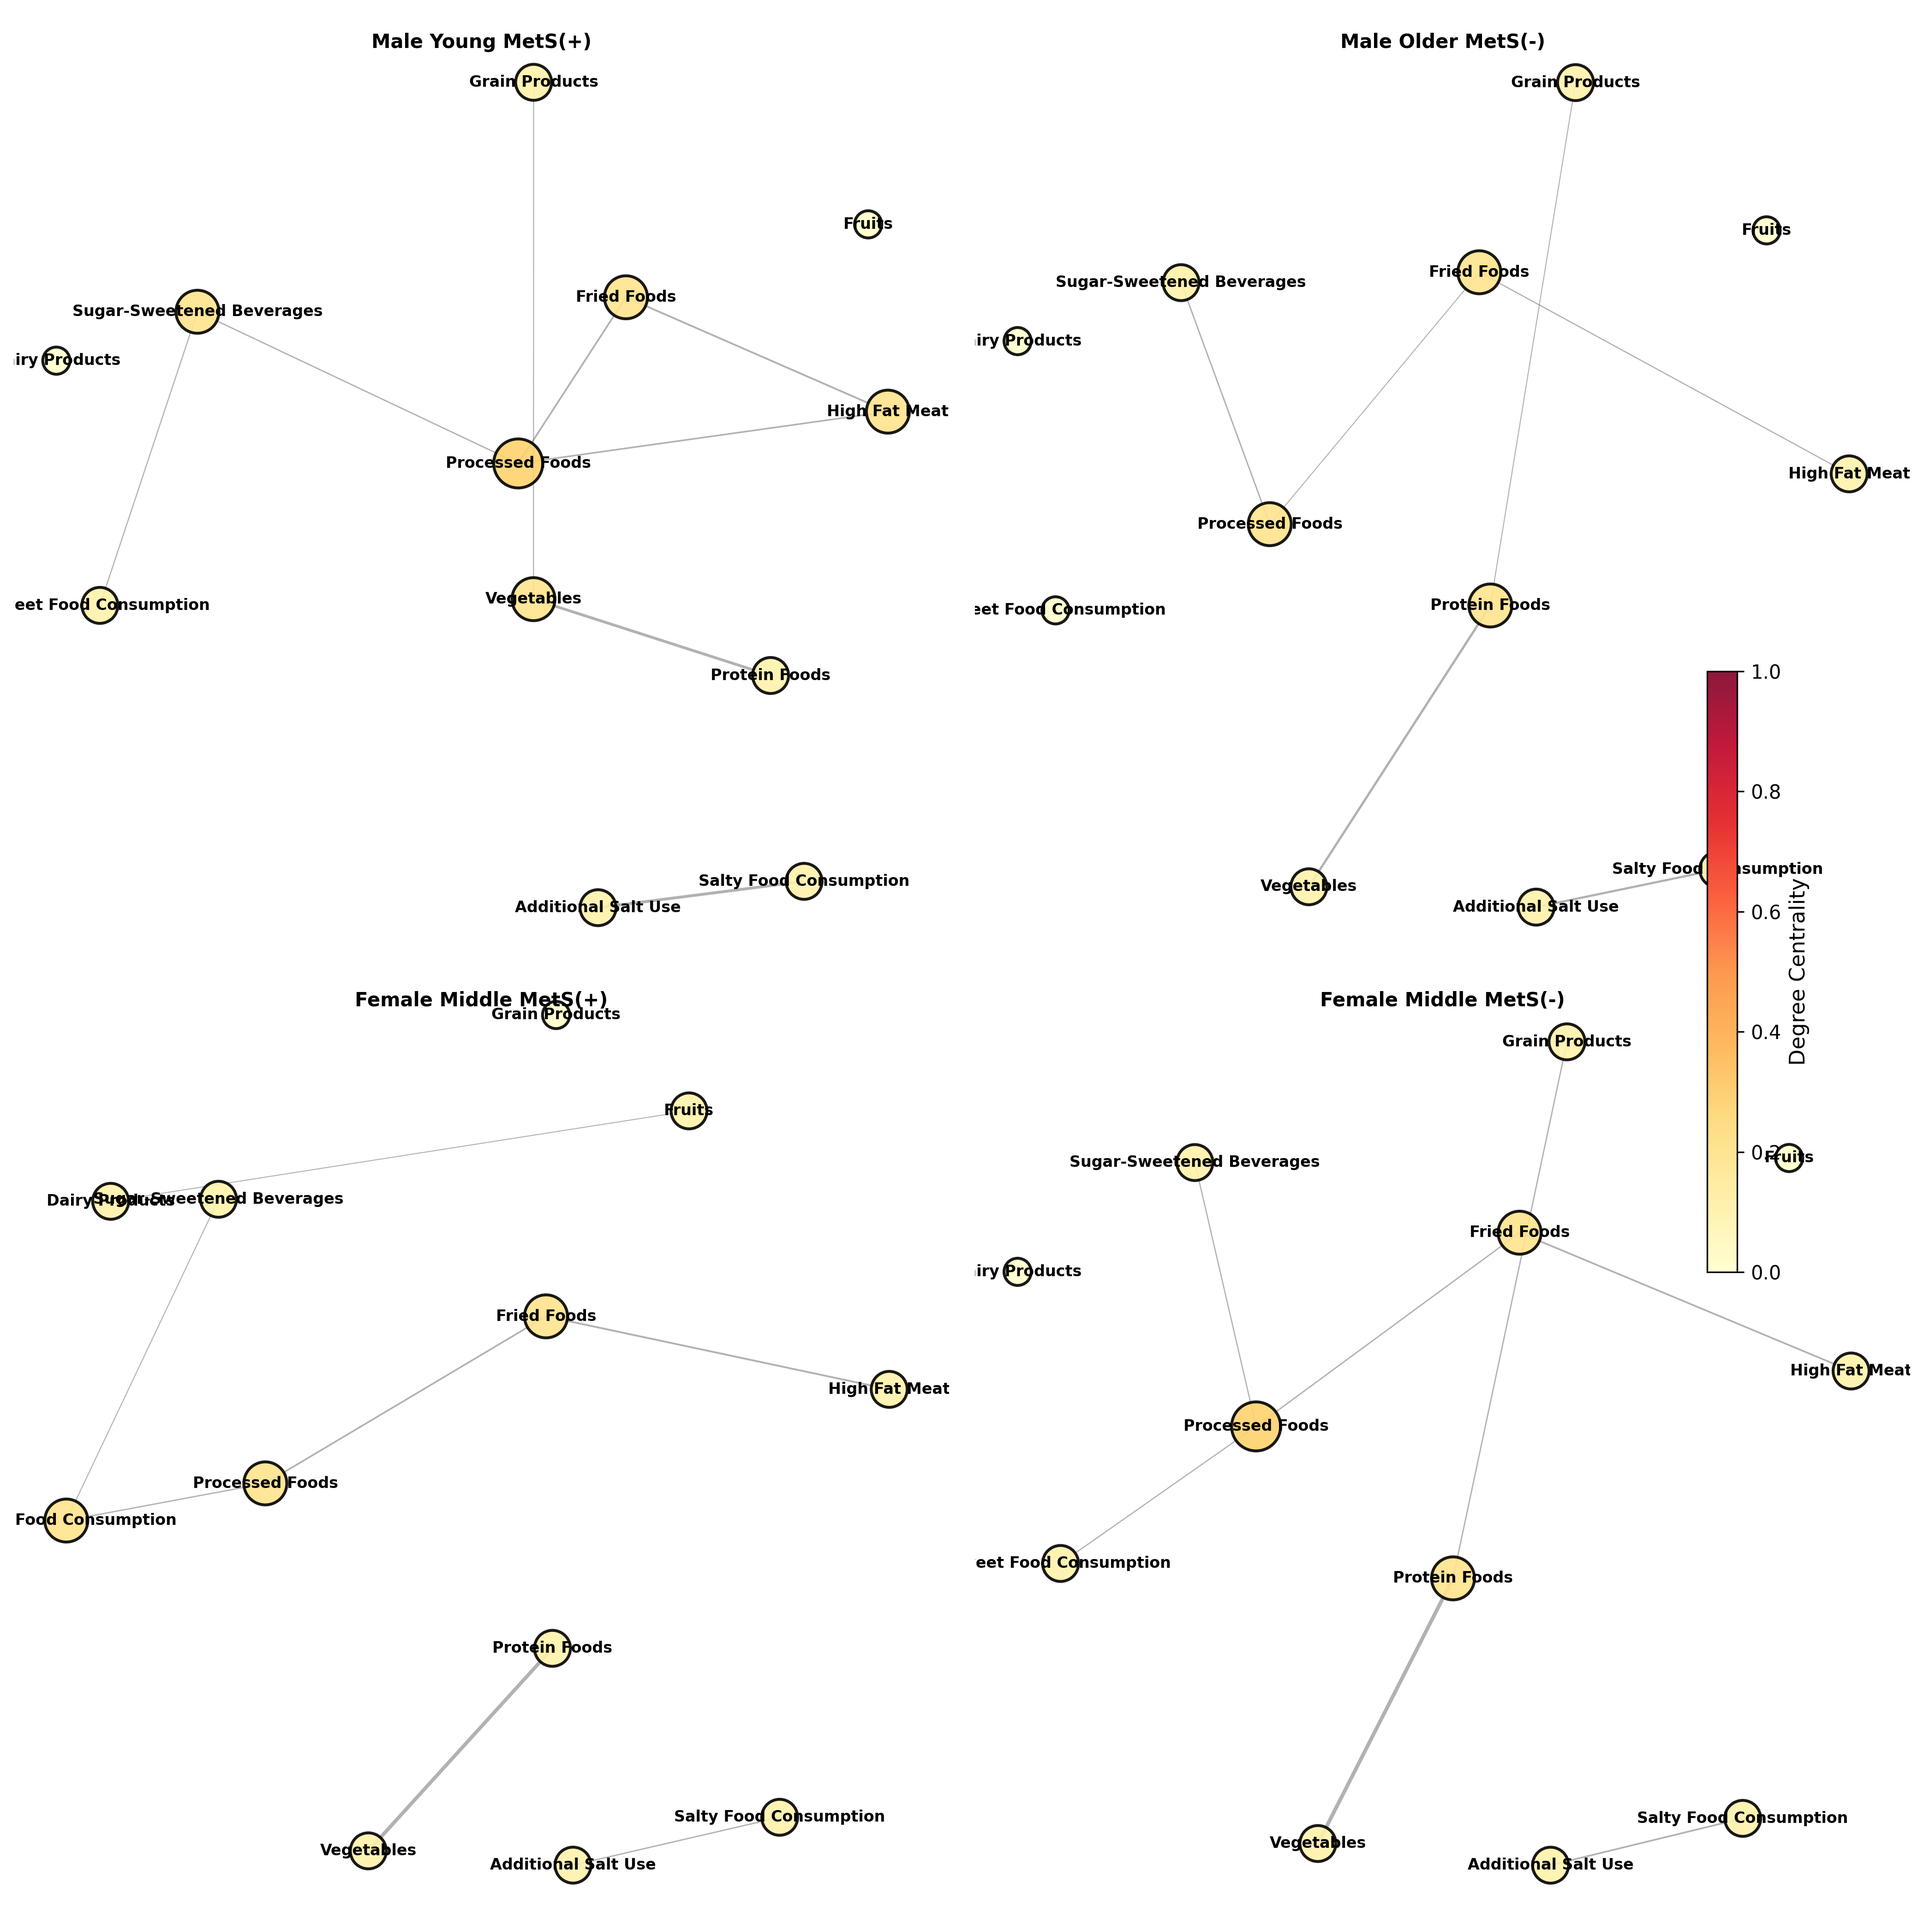
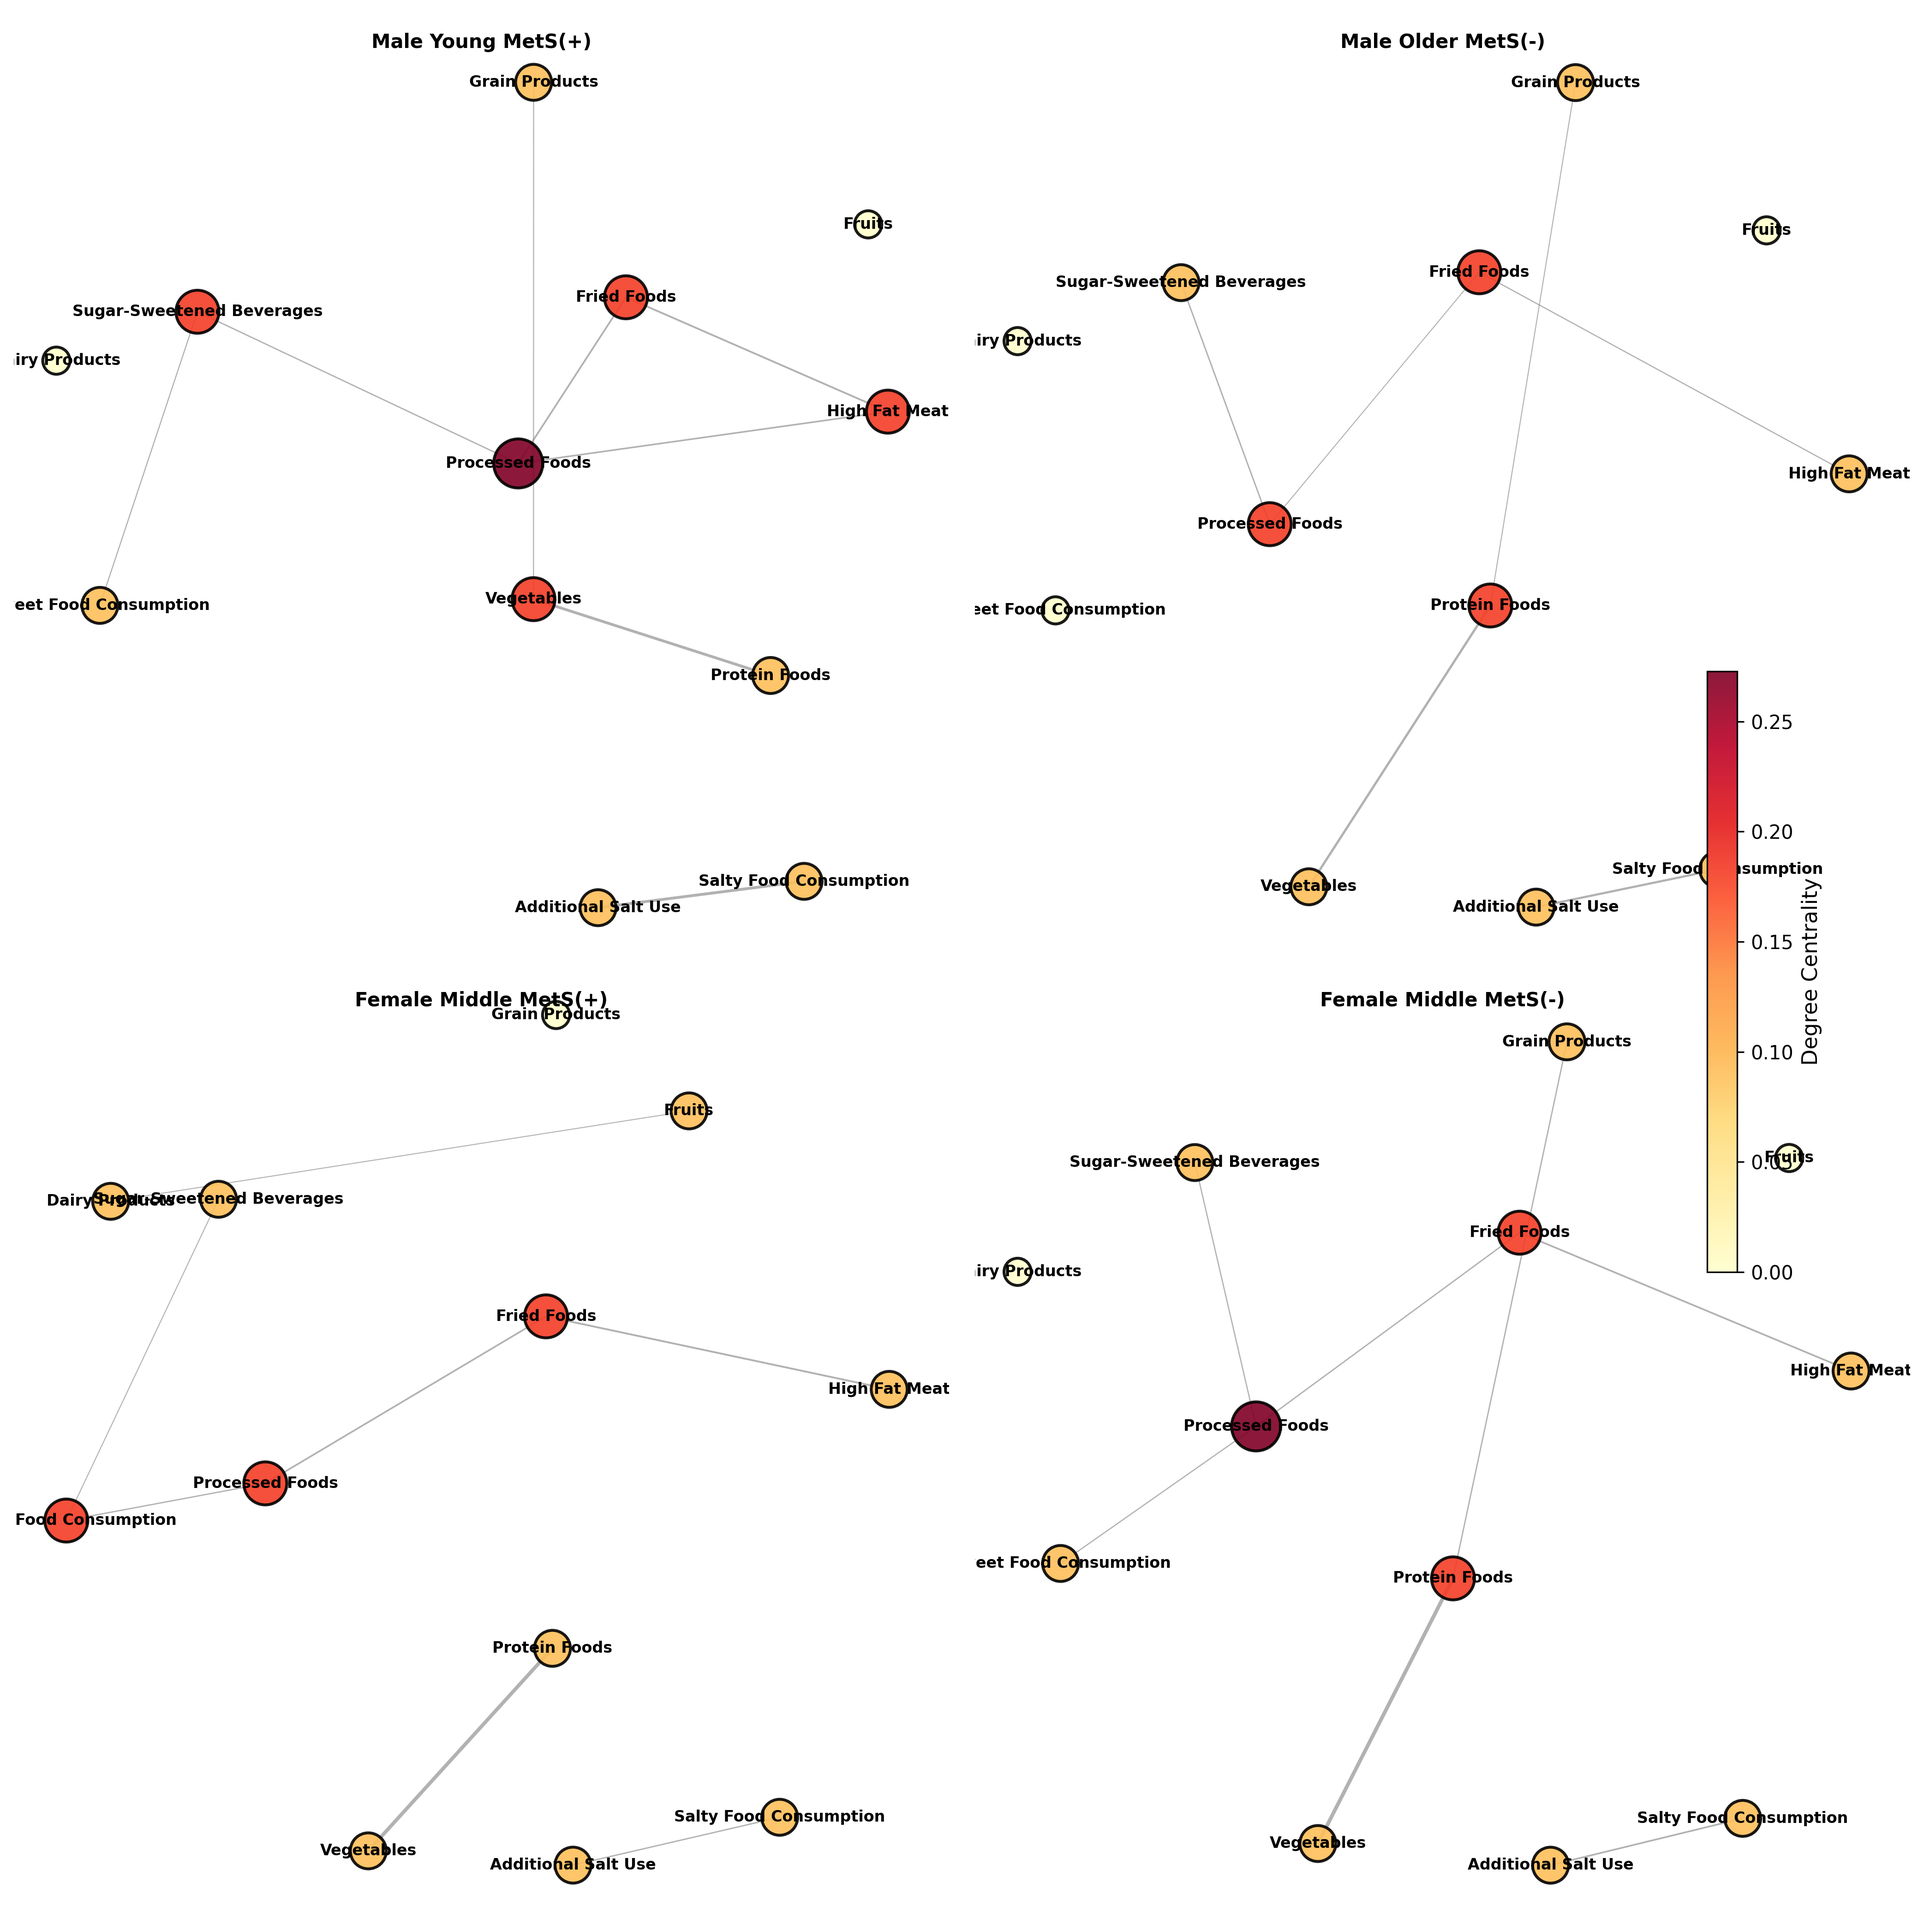
fix: Adjust colorbar range to actual centrality values
Problem:
- GGM networks are sparse (3-9 edges, avg 6.5)
- Degree centrality values are low (0.09-0.27)
- Previous colorbar range (0-1) made all nodes appear yellow

Solution:
- Calculate vmin/vmax from actual centrality data
- Adjust colorbar to 0.000-0.273 range
- Now shows better color contrast (yellow to red gradient)

Changes:
- generate_main_figures_tables.py: Collect centralities first, adjust vmin/vmax
- generate_supplementary_materials.py: Same fix for Figure S1
- Regenerated all network visualization figures

Result: Hub nodes now show stronger red/orange colors, better visual distinction

diff --git a/ver4.0_GGM/src/generate_main_figures_tables.py b/ver4.0_GGM/src/generate_main_figures_tables.py
@@ -183,6 +183,20 @@ def generate_figure_1():
     axes = axes.flatten()
     
     last_nodes = None  # Store the last nodes collection for colorbar
+    all_centralities = []  # Collect all centrality values for vmin/vmax
+    
+    # First pass: collect all centrality values
+    for sex, age_group, mets_status in KEY_GROUPS:
+        G = load_network(sex, age_group, mets_status)
+        if G is not None and G.number_of_nodes() > 0:
+            centrality = nx.degree_centrality(G)
+            all_centralities.extend(centrality.values())
+    
+    # Calculate vmin/vmax from actual data
+    vmin = min(all_centralities) if all_centralities else 0
+    vmax = max(all_centralities) if all_centralities else 1
+    
+    print(f"  📊 Centrality range: {vmin:.3f} - {vmax:.3f}")
     
     for idx, (sex, age_group, mets_status) in enumerate(KEY_GROUPS):
         ax = axes[idx]
@@ -215,13 +229,13 @@ def generate_figure_1():
                 edge_color='gray'
             )
         
-        # Draw nodes
+        # Draw nodes with adjusted vmin/vmax
         nodes = nx.draw_networkx_nodes(
             G, pos, ax=ax,
             node_size=node_sizes,
             node_color=node_colors,
             cmap='YlOrRd',
-            vmin=0, vmax=1,
+            vmin=vmin, vmax=vmax,  # Use actual data range
             alpha=0.9,
             edgecolors='black',
             linewidths=1.5

diff --git a/ver4.0_GGM/src/generate_supplementary_materials.py b/ver4.0_GGM/src/generate_supplementary_materials.py
@@ -101,6 +101,20 @@ def generate_figure_s1():
     axes = axes.flatten()
     
     last_nodes = None  # Store last nodes collection for colorbar
+    all_centralities = []  # Collect all centrality values
+    
+    # First pass: collect all centrality values
+    for sex, age_group, mets_status in GROUPS:
+        G = load_network_file(sex, age_group, mets_status)
+        if G is not None and G.number_of_nodes() > 0:
+            centrality = nx.degree_centrality(G)
+            all_centralities.extend(centrality.values())
+    
+    # Calculate vmin/vmax from actual data
+    vmin = min(all_centralities) if all_centralities else 0
+    vmax = max(all_centralities) if all_centralities else 1
+    
+    print(f"  📊 Centrality range: {vmin:.3f} - {vmax:.3f}")
     
     for idx, (sex, age_group, mets_status) in enumerate(GROUPS):
         ax = axes[idx]
@@ -134,13 +148,13 @@ def generate_figure_s1():
                 edge_color='gray'
             )
         
-        # Draw nodes
+        # Draw nodes with adjusted vmin/vmax
         nodes = nx.draw_networkx_nodes(
             G, pos, ax=ax,
             node_size=node_sizes,
             node_color=node_colors,
             cmap='YlOrRd',
-            vmin=0, vmax=1,
+            vmin=vmin, vmax=vmax,  # Use actual data range
             alpha=0.8,
             edgecolors='black',
             linewidths=1.5
